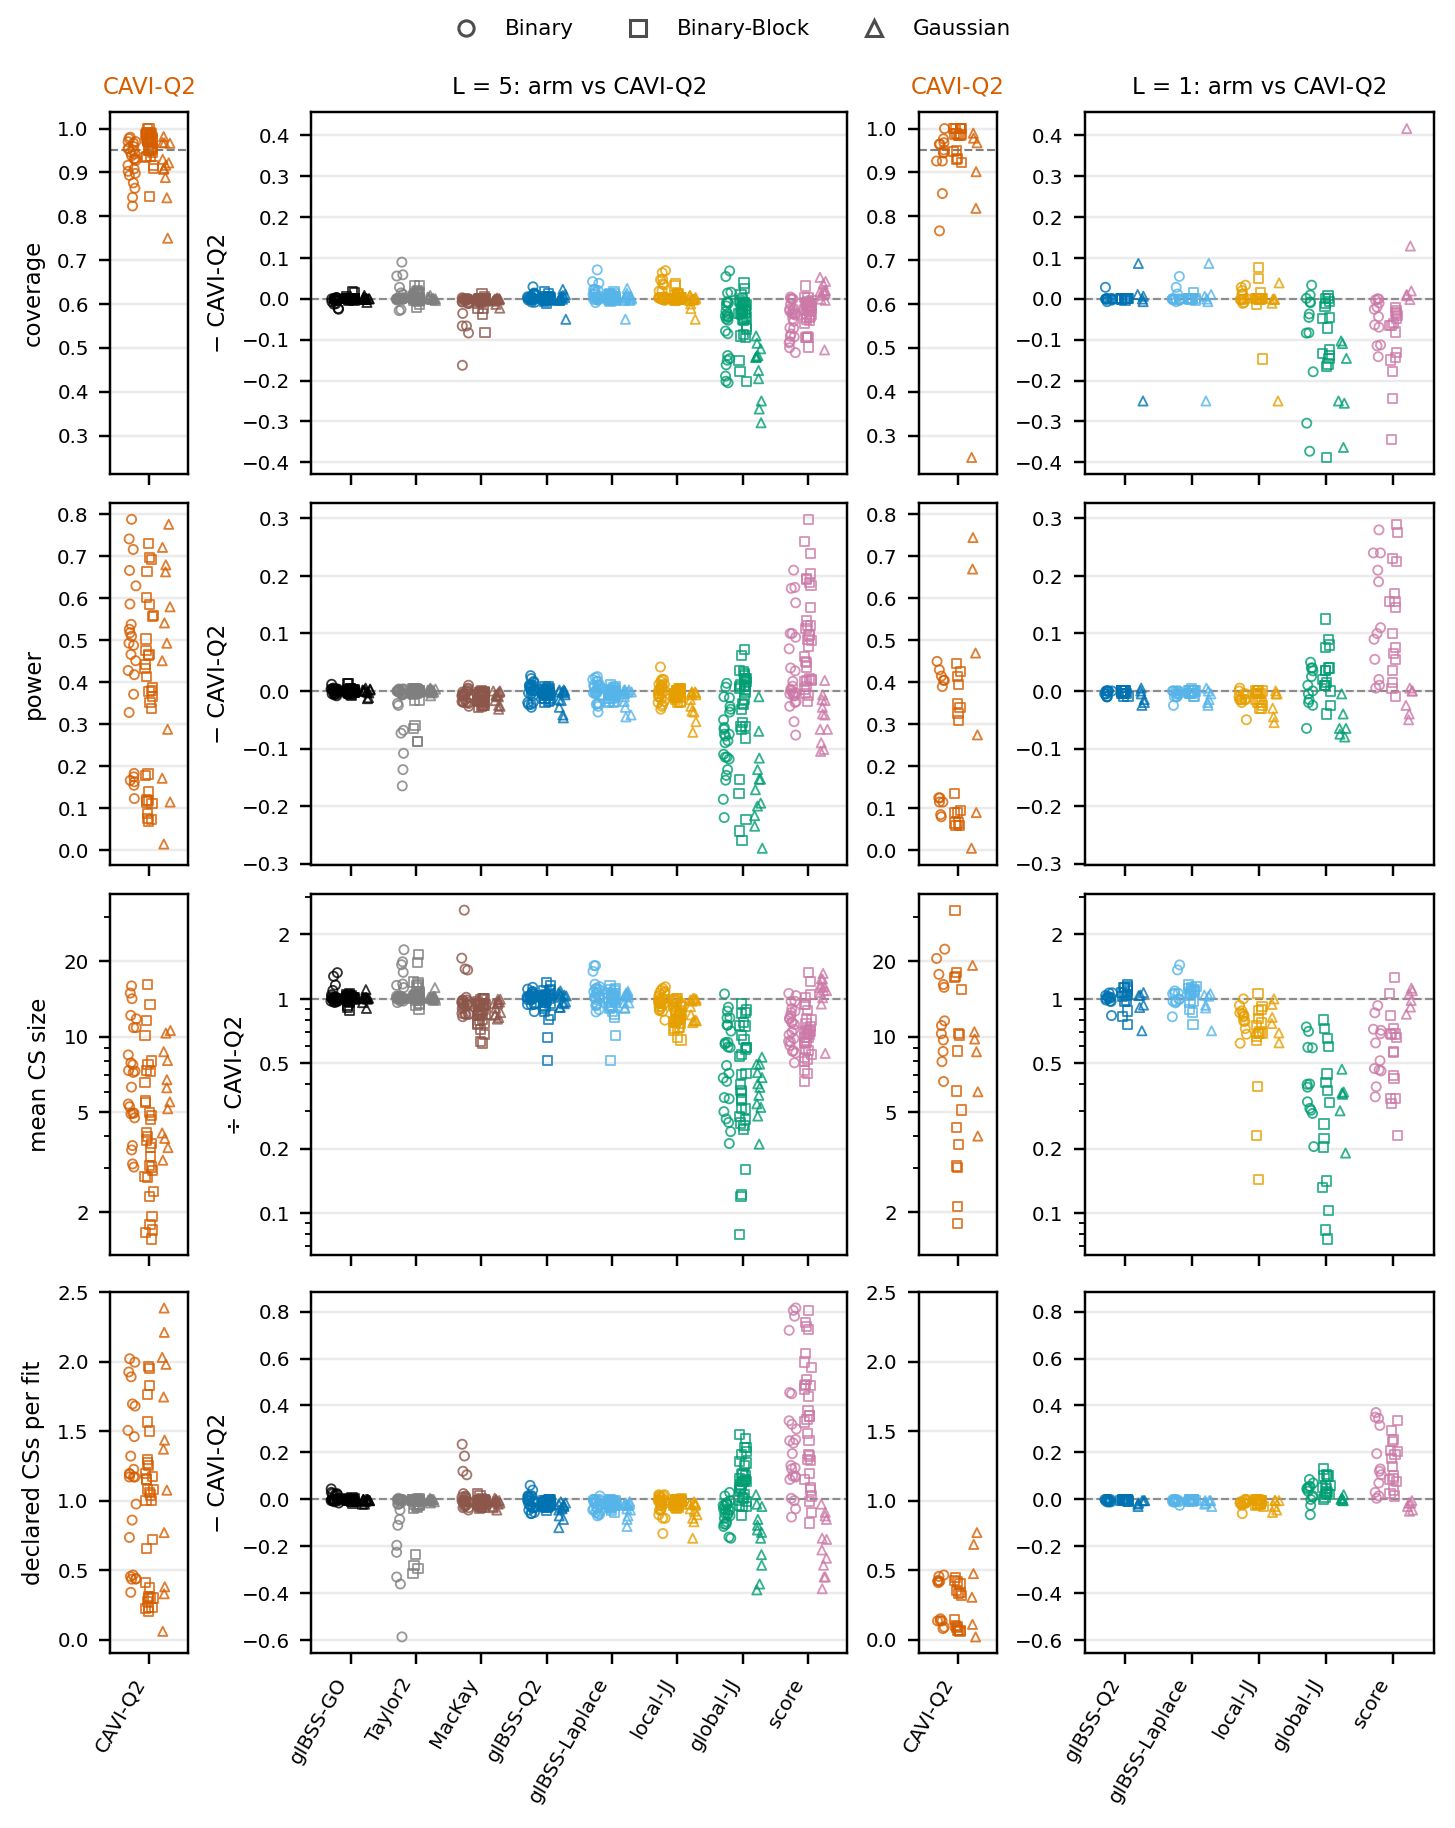
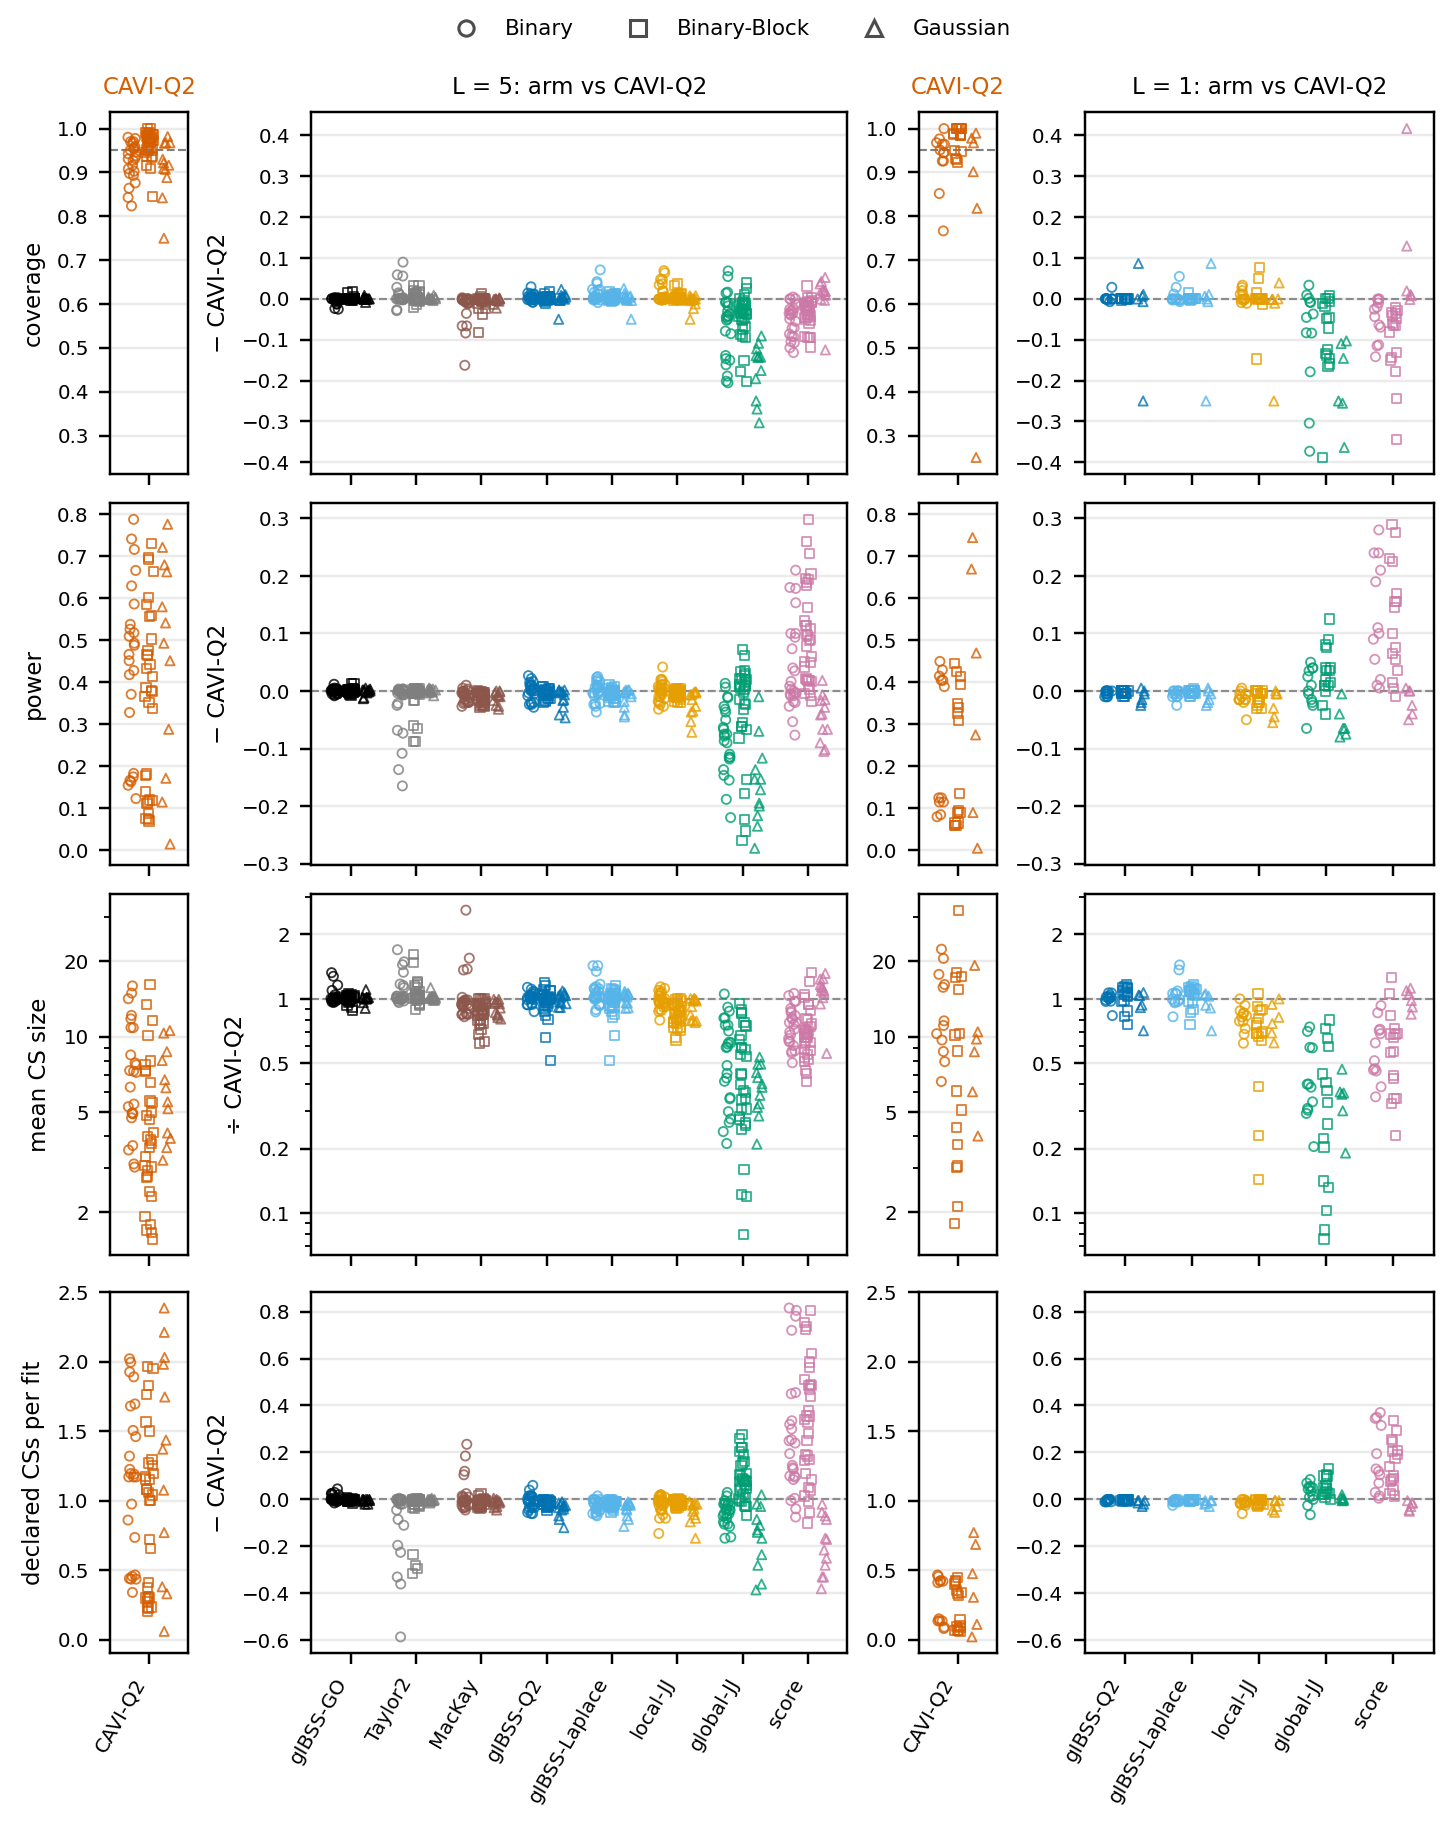
feat(twogroup): truth.qmd - batch-bootstrap 95% intervals on the PIP calibration plots

diff --git a/twogroup_experiments/analysis/logistic_laplace_simulations/truth.py b/twogroup_experiments/analysis/logistic_laplace_simulations/truth.py
@@ -145,10 +145,23 @@ def _coarse(counts: np.ndarray, causal: np.ndarray, k: int = 10):
         return mid, np.where(n > 0, c / n, np.nan), n
 
 
+def _calibration_ci(cnt: np.ndarray, cau: np.ndarray, k: int = 10, n_boot: int = 1000, seed: int = 0):
+    """95% interval of each coarse bin's causal share from resampling batches (rows of `cnt`/`cau`,
+    10 replicates each), so features from one fit move together."""
+    rng = np.random.default_rng(seed)
+    n = cnt.reshape(len(cnt), -1, k).sum(2)
+    c = cau.reshape(len(cau), -1, k).sum(2)
+    idx = rng.integers(0, len(n), size=(n_boot, len(n)))
+    with np.errstate(invalid="ignore", divide="ignore"):
+        b = c[idx].sum(1) / n[idx].sum(1)
+    return np.nanquantile(b, 0.025, axis=0), np.nanquantile(b, 0.975, axis=0)
+
+
 def calibration_figure(bins: pl.DataFrame, L: int, panel: float = 1.45):
     """Rows = arms, columns = designs: share of features that are causal per PIP bin (20 bins)
     against the bin's PIP, non-null cells pooled. Dot area grows with the bin's feature count
-    (square root, relative to the panel's largest bin)."""
+    (square root, relative to the panel's largest bin). Bars: 95% intervals from resampling
+    batches of 10 replicates."""
     import matplotlib.pyplot as plt
     d = bins.filter((pl.col("L") == L) & ~pl.col("null"))
     ms = arms(d)
@@ -160,10 +173,12 @@ def calibration_figure(bins: pl.DataFrame, L: int, panel: float = 1.45):
             g = d.filter((pl.col("method") == m) & (pl.col("exp") == exp))
             ax.plot([0, 1], [0, 1], ls=":", c="0.5", lw=0.8, zorder=0)
             if g.height:
-                cnt = np.array(g["counts"].to_list()).sum(0).astype(float)
-                cau = np.array(g["causal"].to_list()).sum(0).astype(float)
-                mid, rate, n = _coarse(cnt, cau)
+                cnt = np.array(g["counts"].to_list()).astype(float)
+                cau = np.array(g["causal"].to_list()).astype(float)
+                mid, rate, n = _coarse(cnt.sum(0), cau.sum(0))
+                lo, hi = _calibration_ci(cnt, cau)
                 ok = n > 0
+                ax.vlines(mid[ok], lo[ok], hi[ok], color=R.METHOD_COLOR[m], lw=0.8, alpha=0.7, zorder=2)
                 ax.scatter(mid[ok], rate[ok], s=4 + 36 * np.sqrt(n[ok] / n[ok].max()),
                            color=R.METHOD_COLOR[m], edgecolor="white", linewidth=0.3, zorder=3)
             ax.set_xlim(0, 1)
